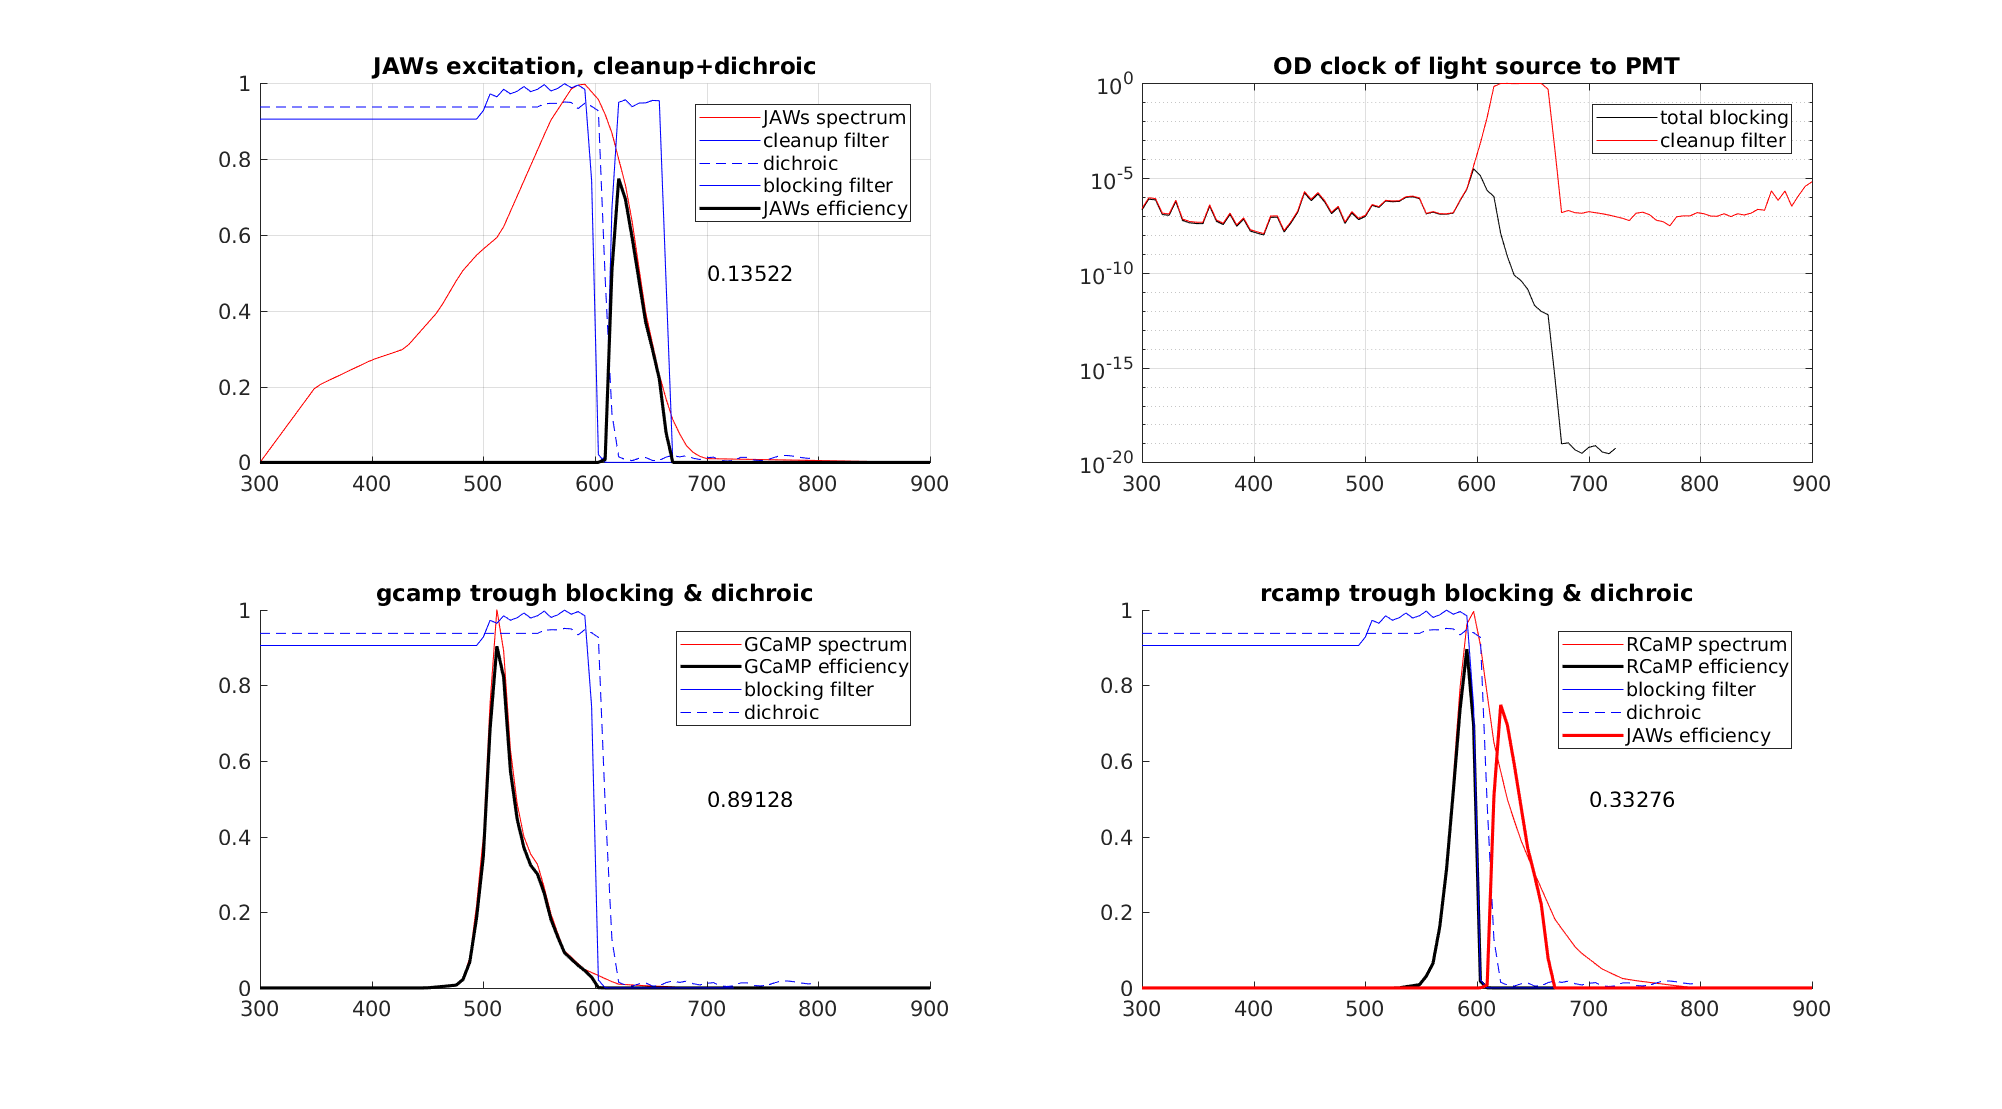
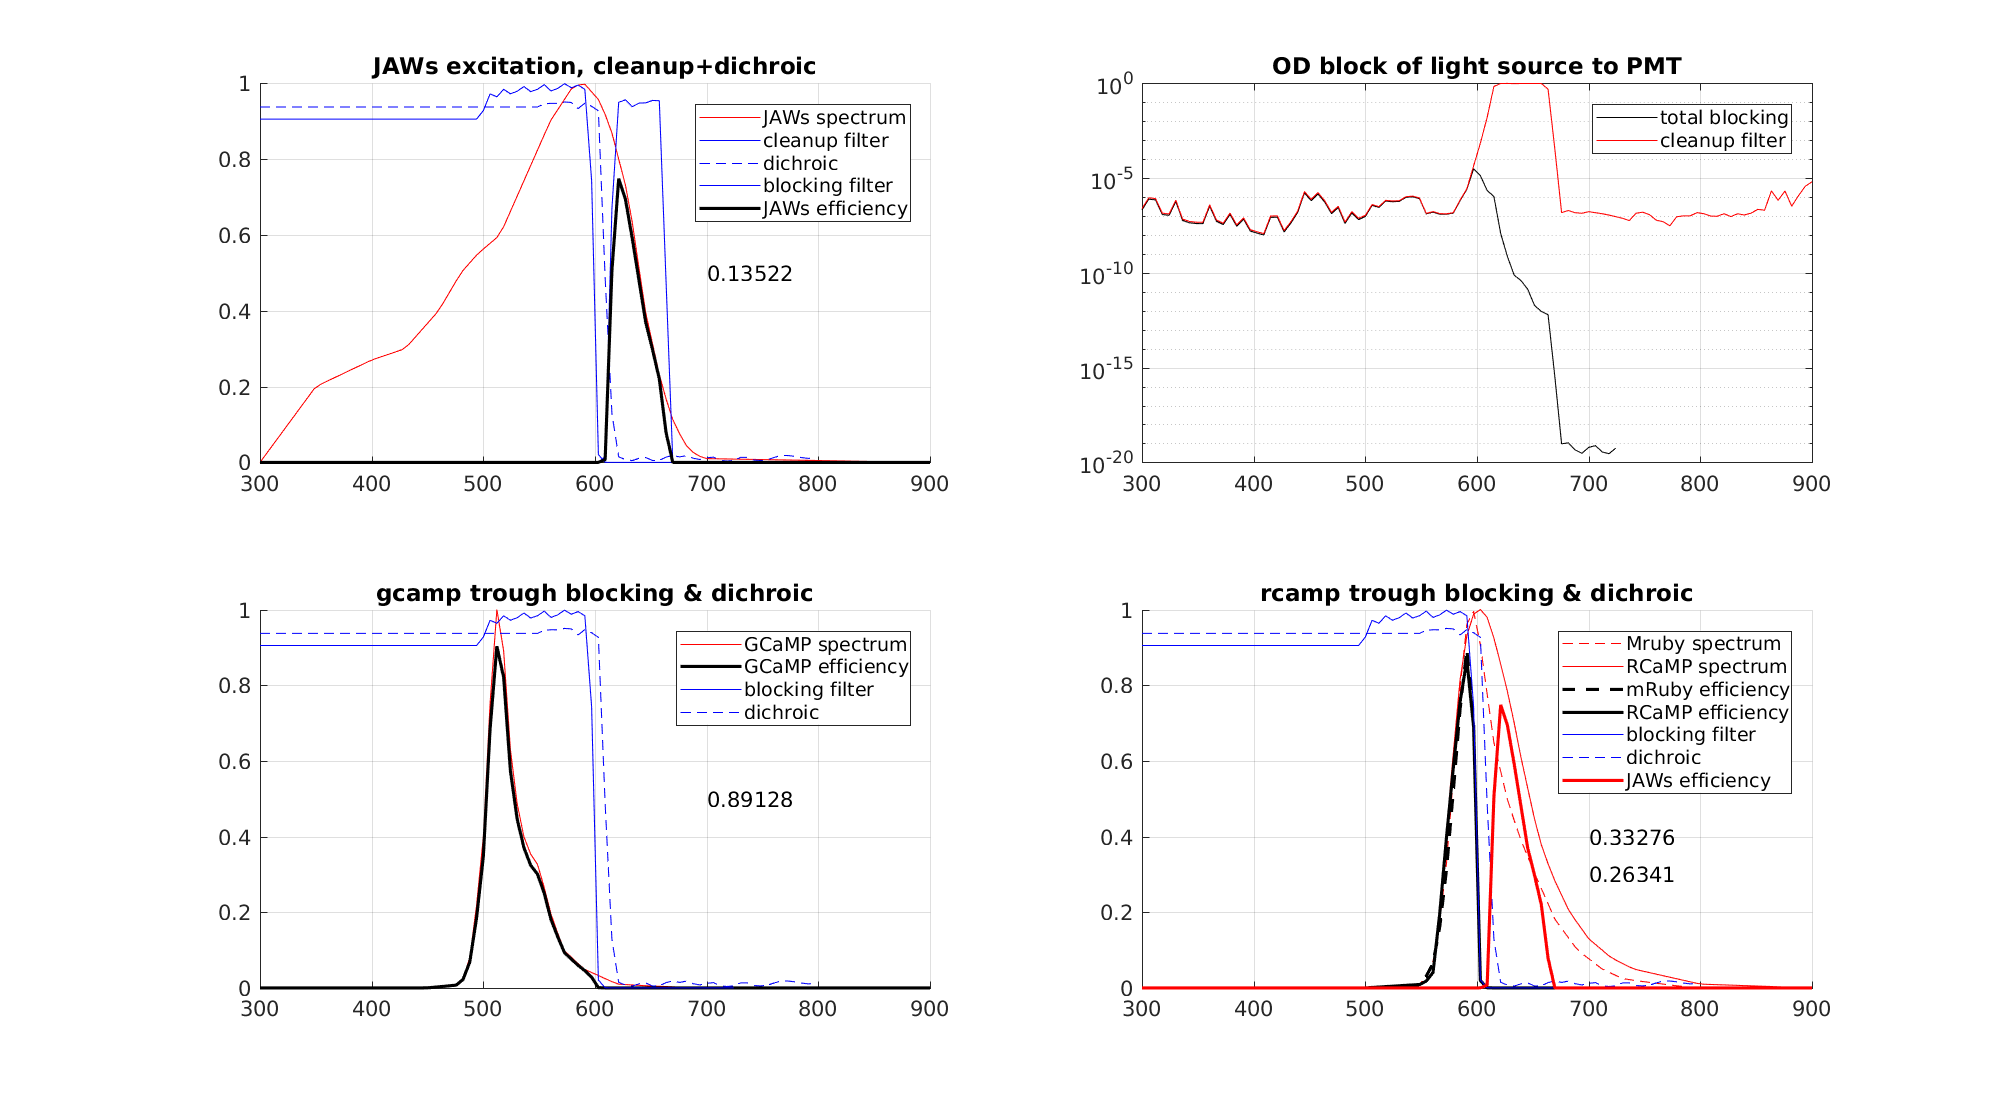
added mRuby spectrum behaves the same as rcamp

diff --git a/calculate_filters.m b/calculate_filters.m
@@ -56,6 +56,25 @@ spectra(3).wl=wl;
 spectra(3).a=a;
 spectra(3).label='jaws';
 
+%% make MRuby spectrum
+I= imread('mruby_spectrum.png');
+figure(1); clf; 
+plot(350,0);
+hold on;
+image([193,840],[-.16,1.16],flipud(I));
+
+
+wl=[300, 500, 550, 555,562 ,575, 585,590,595,600,605,609,612,620,630,640,655,667,683,700,720,740,755,800,900];
+a=[0, 0, 0.01,0.02,0.05 ,0.5,0.82,0.92,0.98,1,1,0.98,0.96,0.87,0.75,0.6,0.4,0.3,0.2,0.13,0.08,0.05,0.04,0.01,0];
+
+
+plot(wl,a,'r-','LineWidth',2);
+a=a./max(a);
+
+spectra(4).wl=wl;
+spectra(4).a=a;
+spectra(4).label='jaws';
+
 %% load filter spectra
 filternames={'BLP01-633R','FF01-575_59','FF01-612_SP','FF01-640_20','FF01-640_40','FF611-SDi01'};
 
@@ -109,12 +128,12 @@ subplot(222);
 semilogy(wl,t_cleanup.*t_dichroic.*t_block,'k');
 hold on;
 semilogy(wl,t_cleanup,'r');
-title('OD clock of light source to PMT');
+title('OD block of light source to PMT');
 grid on;
 legend('total blocking','cleanup filter');
 
 
-subplot(223);  hold on;
+subplot(223);  hold on;  grid on;
 title('gcamp trough blocking & dichroic');
 a_gcamp=interp1(spectra(1).wl,spectra(1).a,wl);
 plot(wl,a_gcamp,'r');
@@ -127,18 +146,29 @@ text(700,0.5,num2str(sum(gcamp_e)./sum(a_gcamp)));
 
 legend('GCaMP spectrum','GCaMP efficiency','blocking filter','dichroic');
 
-subplot(224);  hold on;
+subplot(224);  hold on;  grid on;
 title('rcamp trough blocking & dichroic');
 a_rcamp=interp1(spectra(2).wl,spectra(2).a,wl);
-plot(wl,a_rcamp,'r');
+a_mruby=interp1(spectra(4).wl,spectra(4).a,wl);
+plot(wl,a_rcamp,'r--');
+plot(wl,a_mruby,'r');
+
 rcamp_e=a_rcamp.*t_block.*t_dichroic;
 rcamp_e(isnan(rcamp_e))=0;
-plot(wl,rcamp_e,'k','LineWidth',1.5);
+
+mruby_e=a_mruby.*t_block.*t_dichroic;
+mruby_e(isnan(mruby_e))=0;
+
+
+plot(wl,rcamp_e,'k--','LineWidth',1.5);
+plot(wl,mruby_e,'k','LineWidth',1.5);
+
 plot(wl,t_block,'b');
 plot(wl,t_dichroic,'b--');
-text(700,0.5,num2str(sum(rcamp_e)./sum(a_rcamp)));
+text(700,0.4,num2str(sum(rcamp_e)./sum(a_rcamp)));
+text(700,0.3,num2str(sum(mruby_e)./sum(a_mruby)));
 plot(wl,jaws_e,'r','LineWidth',1.5);
-legend('RCaMP spectrum','RCaMP efficiency','blocking filter','dichroic','JAWs efficiency');
+legend('Mruby spectrum','RCaMP spectrum','mRuby efficiency','RCaMP efficiency','blocking filter','dichroic','JAWs efficiency');
 
 saveas(gcf,'filter_overview.png')
 
